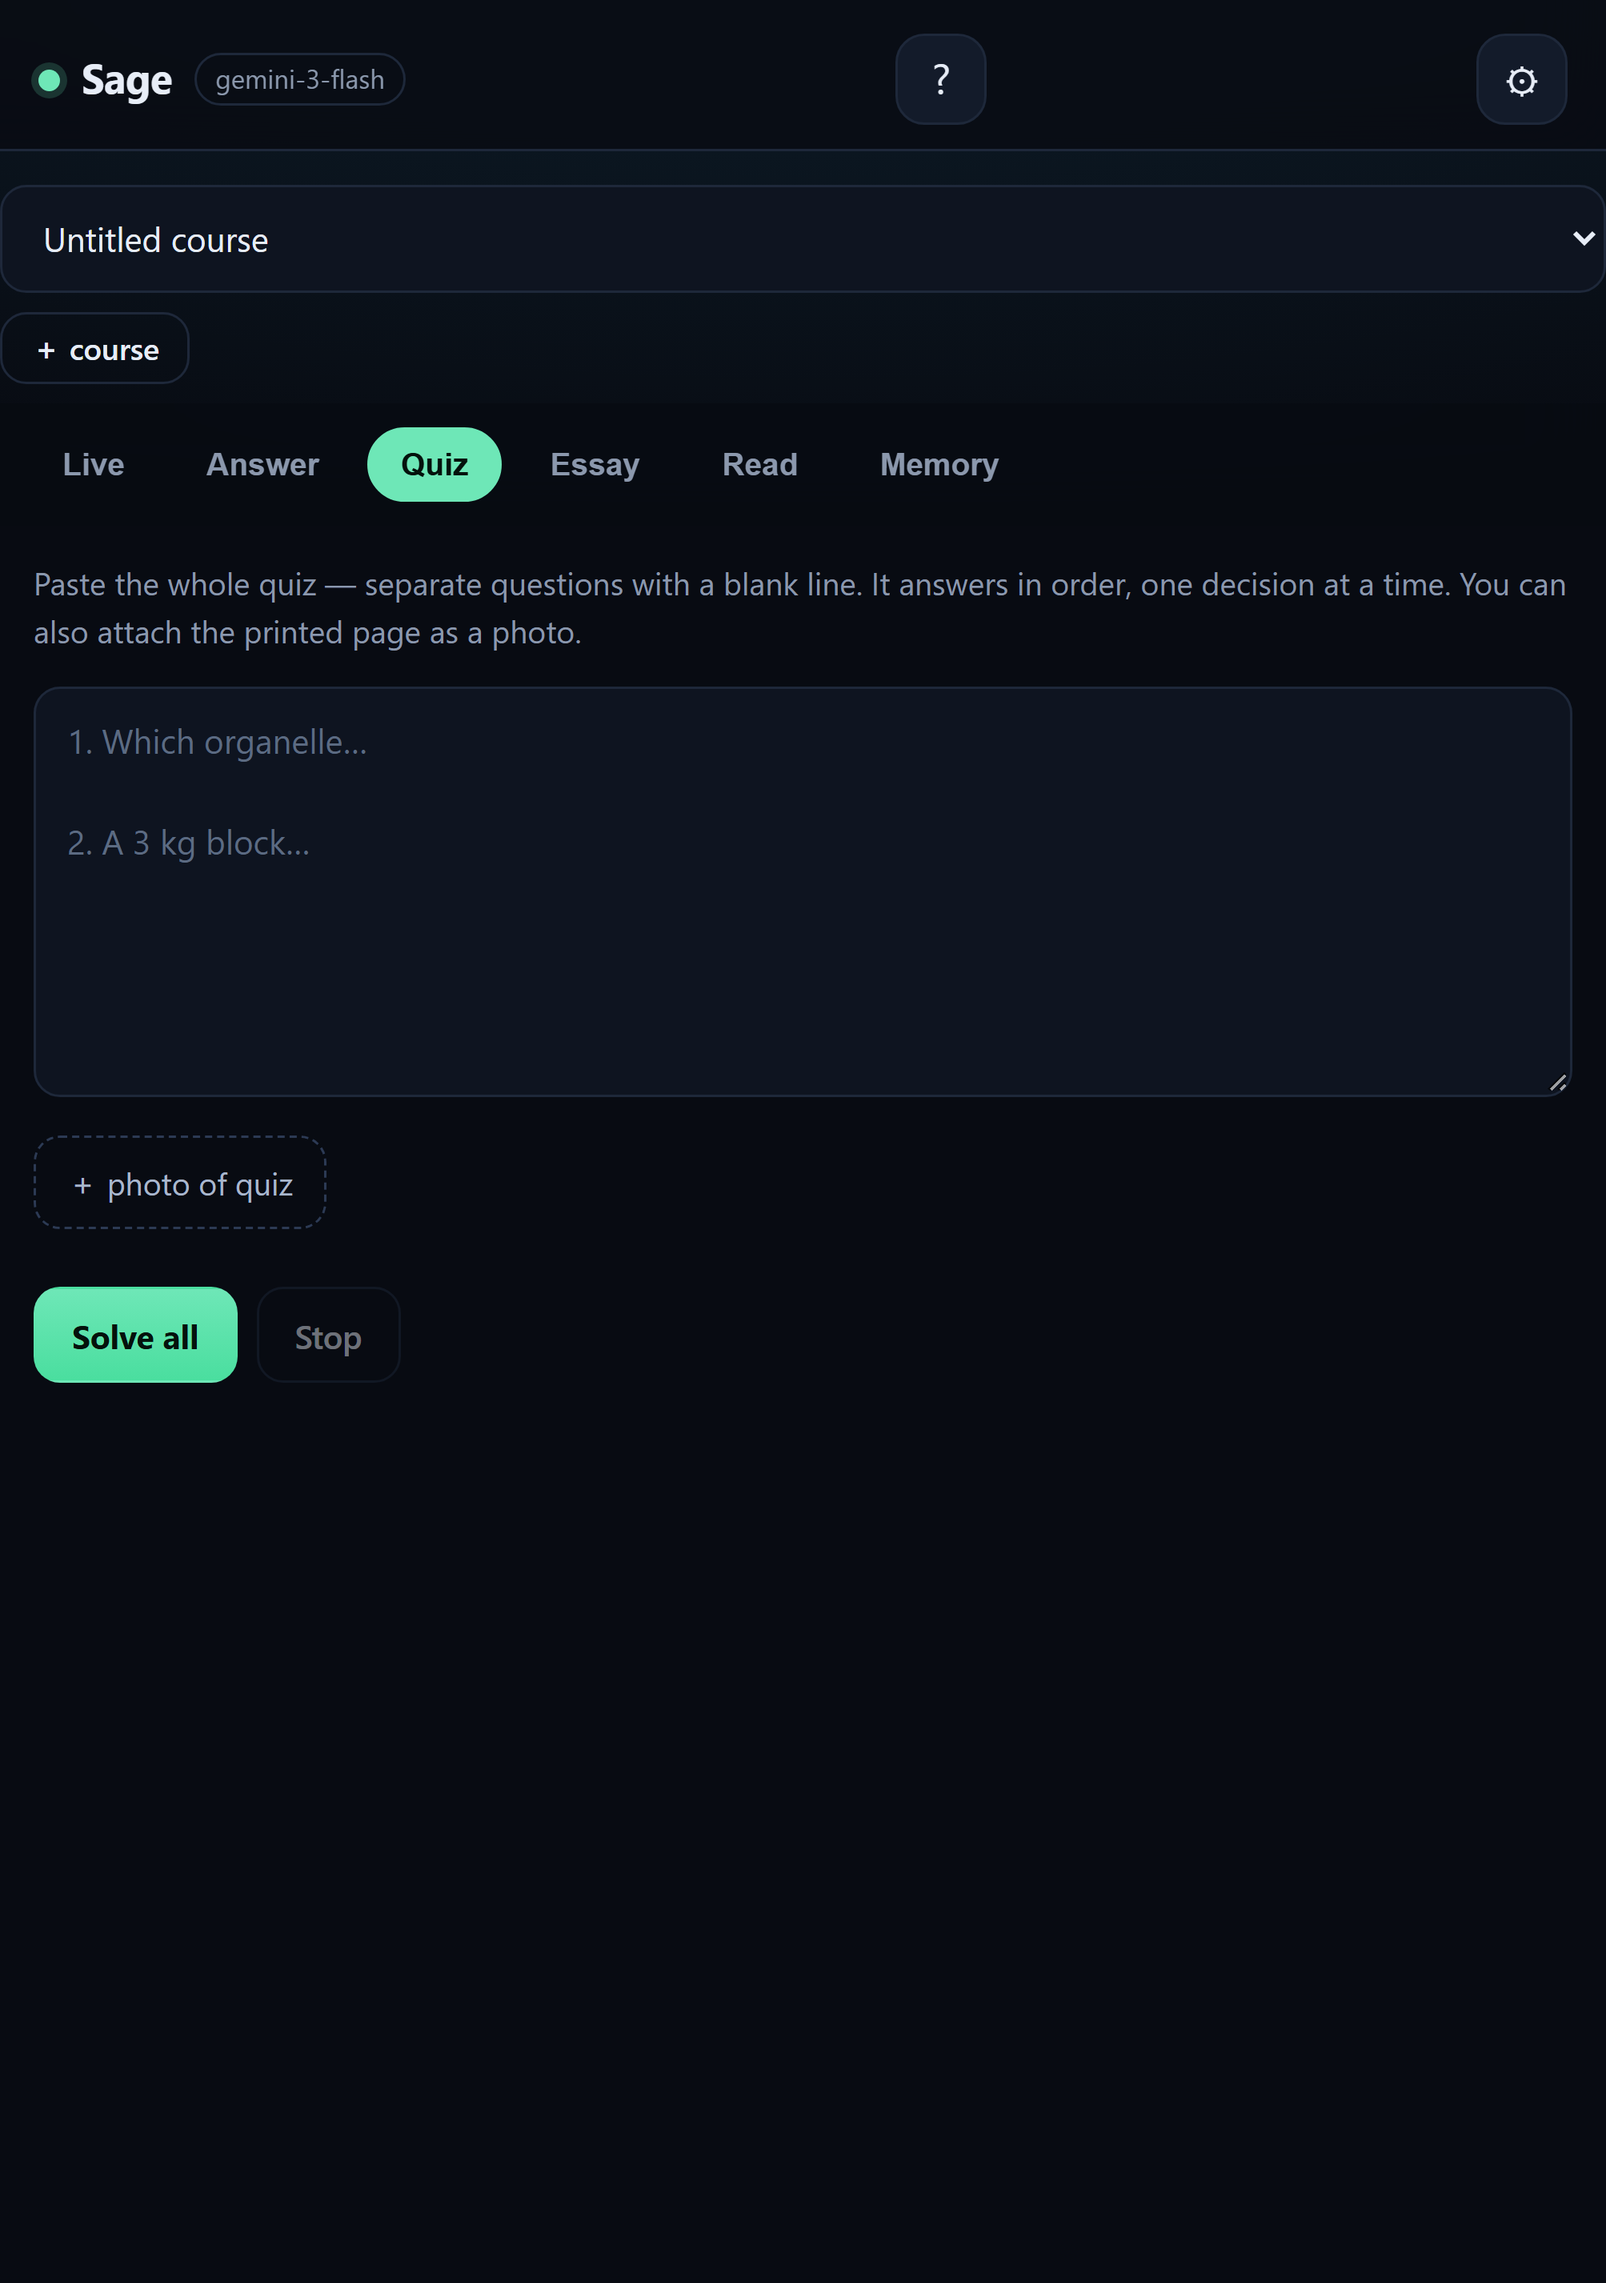
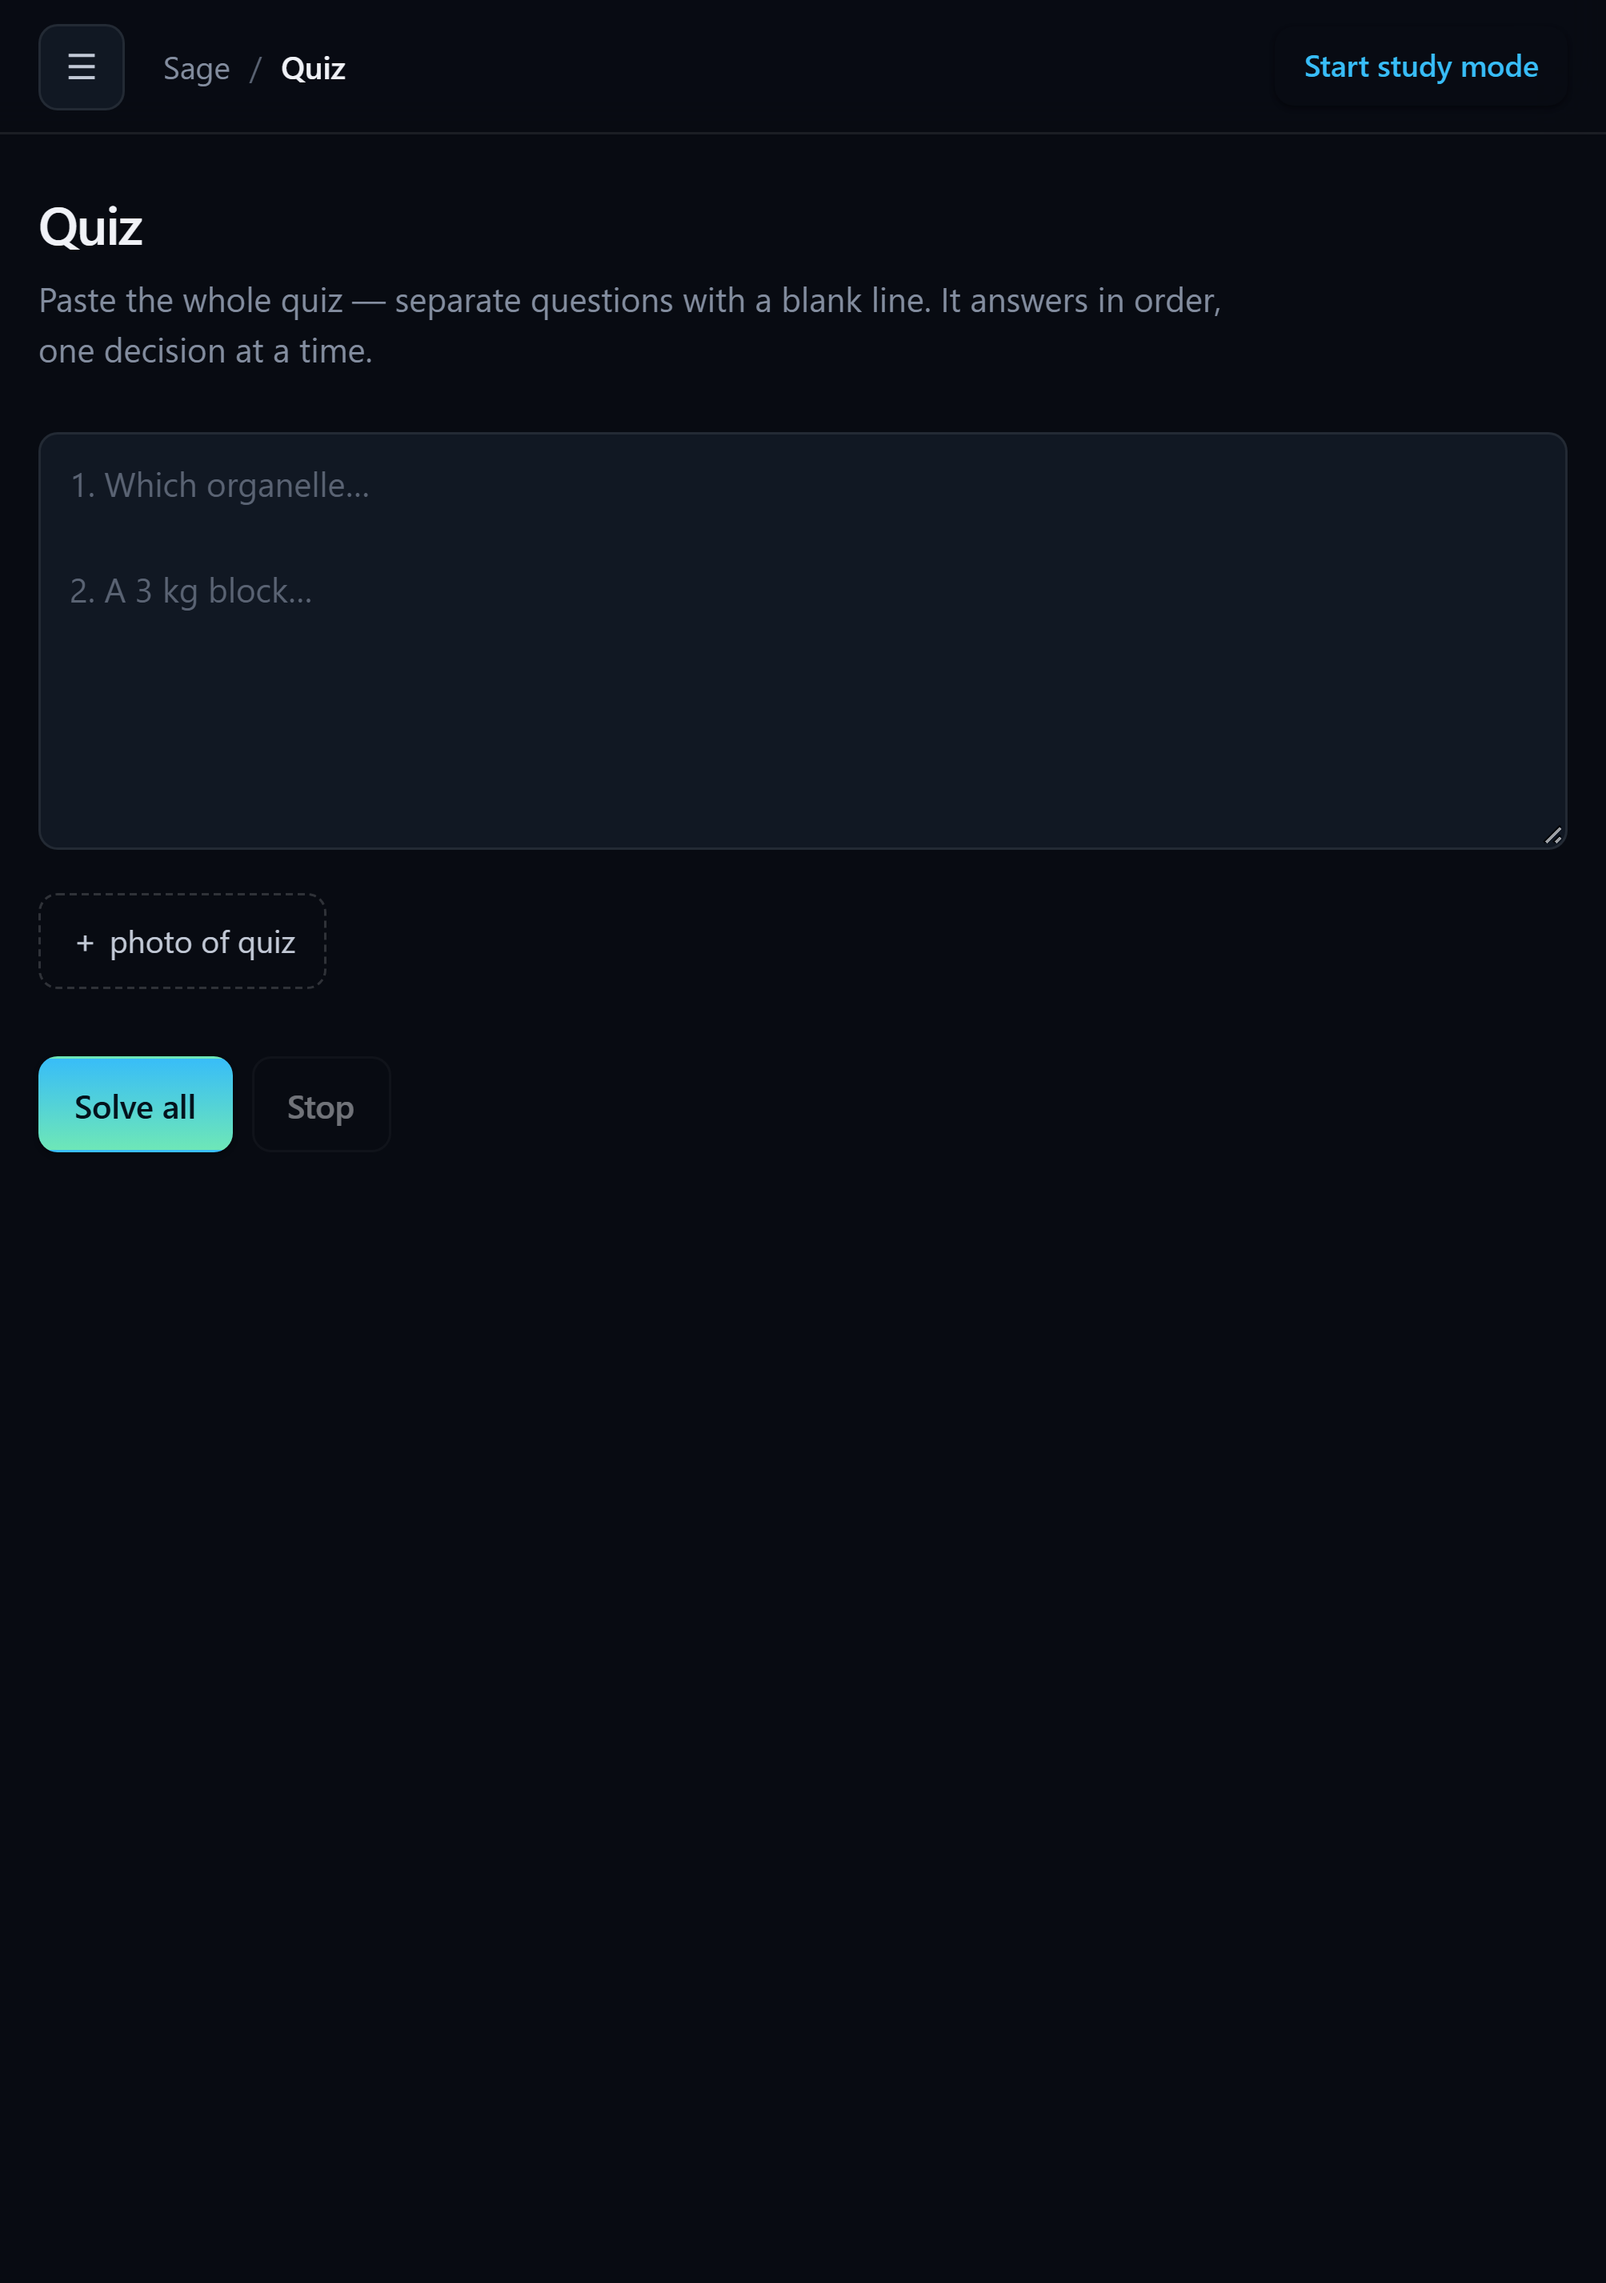
Capture the listing screenshots in the new palette.
The script photographed whatever theme the headless browser reported, which is
light; the listing and its header art are the dark surface, so it now emulates
prefers-color-scheme: dark. All three sizes are regenerated. The regenerated
Answer shot also showed a ghost primary button whose ink was made for the filled
gradient and vanished without one, so .btn.ghost.primary takes the brand colour.

diff --git a/public/styles.css b/public/styles.css
@@ -560,6 +560,9 @@ h4 { font-size: 13px; }
 }
 .btn.primary:hover { filter: brightness(1.07); }
 .btn.ghost { background: transparent; }
+/* A ghost primary keeps the emphasis but has no filled background, so the ink made
+   for the gradient would disappear on it; the brand colour carries it instead. */
+.btn.ghost.primary { background: transparent; color: var(--brand); }
 .btn.ghost:hover { background: var(--surface-2); }
 .btn.danger, .btn.ghost.danger { color: var(--danger); }
 .btn.ghost.danger:hover { background: var(--danger-soft); }
